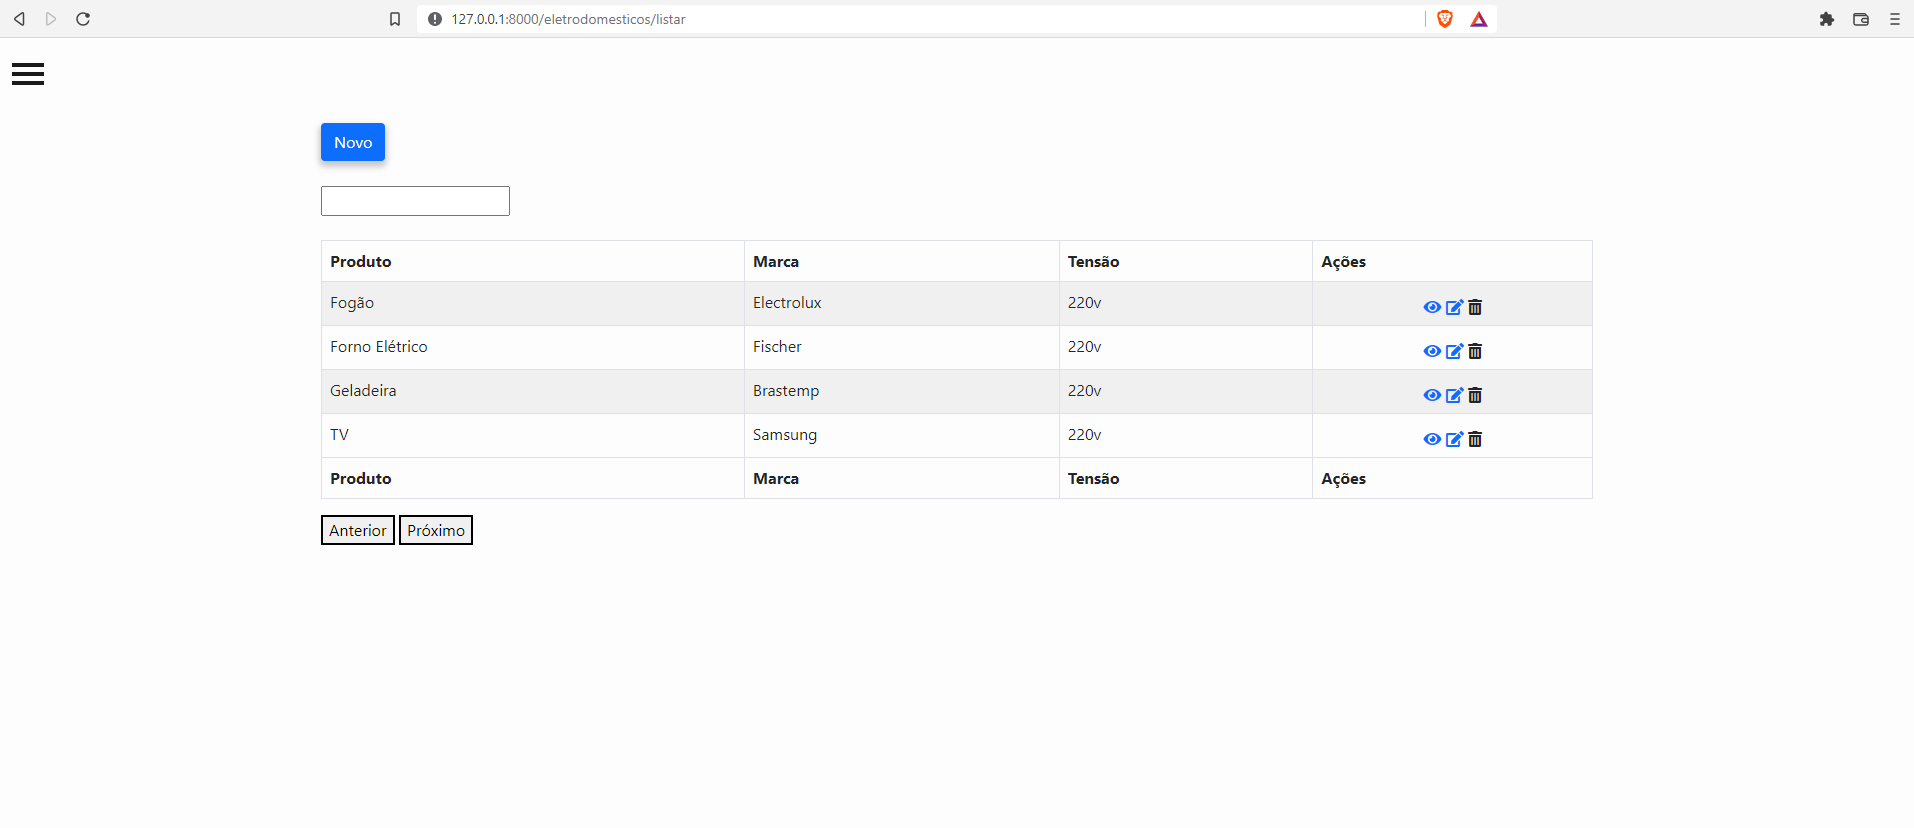
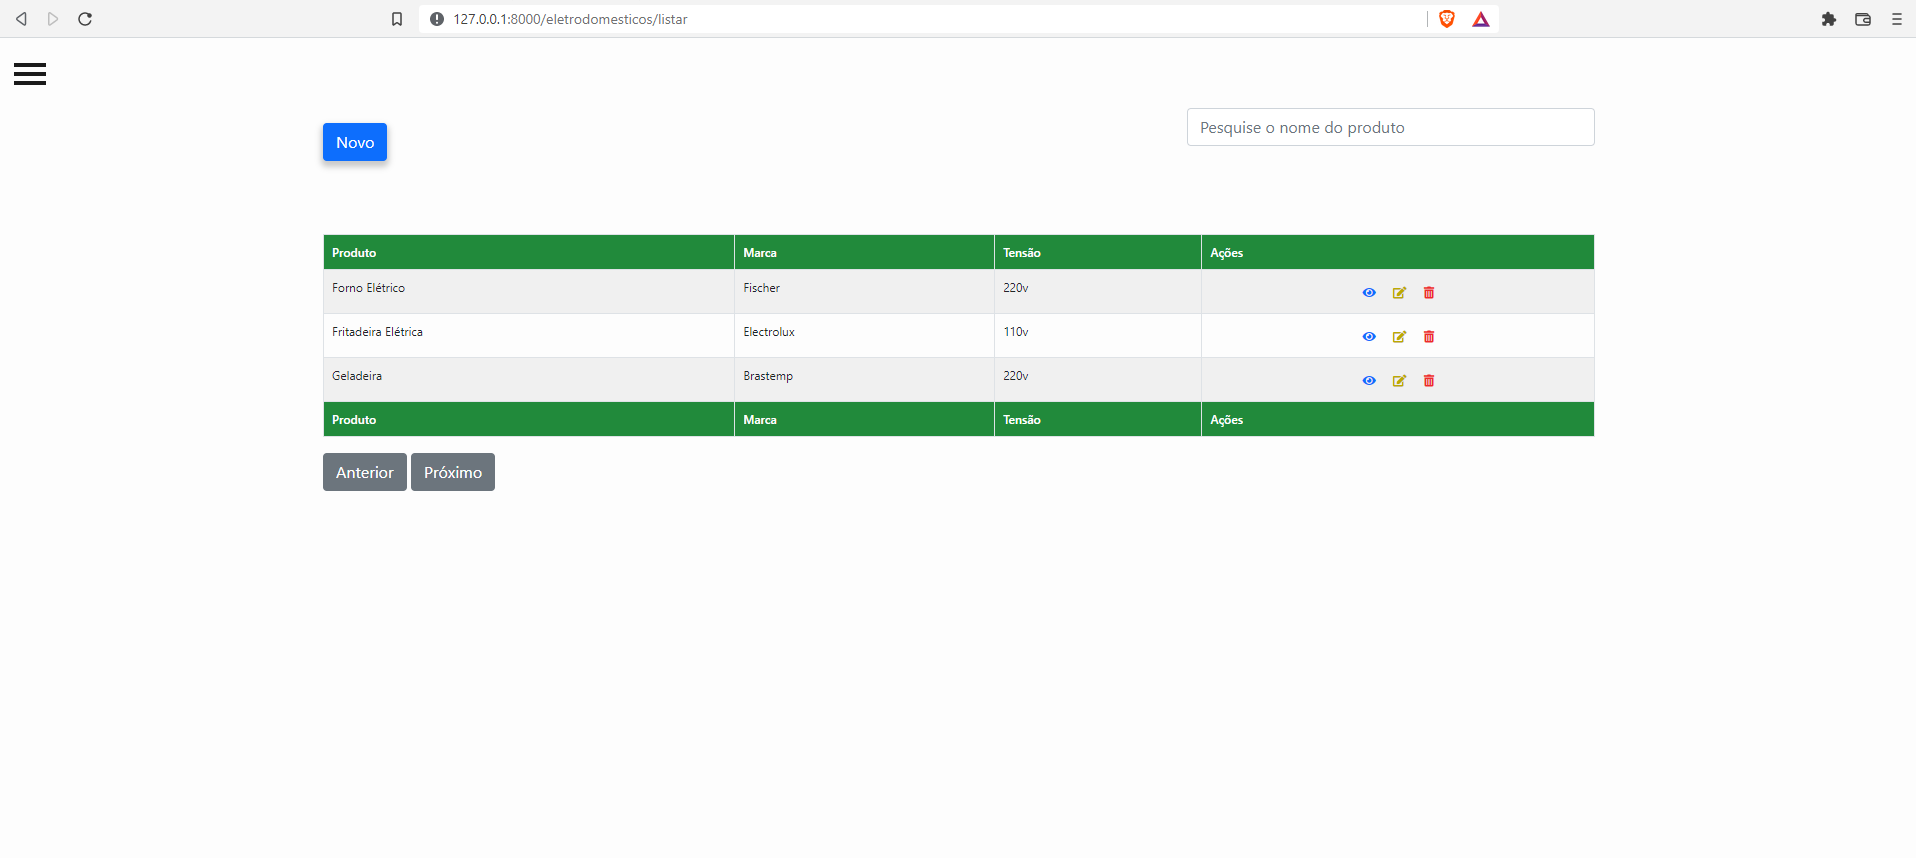
atualizando estilo da tabela

diff --git a/public/js/app.js b/public/js/app.js
@@ -4925,6 +4925,8 @@ __webpack_require__.r(__webpack_exports__);
 //
 //
 //
+//
+//
 
 
 /* harmony default export */ const __WEBPACK_DEFAULT_EXPORT__ = ({
@@ -30675,10 +30677,10 @@ var render = function () {
   var _c = _vm._self._c || _h
   return _c("layout", [
     _c("div", { staticClass: "container" }, [
-      _c("div", { staticClass: "row btn-actions" }, [
+      _c("div", { staticClass: "row" }, [
         _c(
           "div",
-          { staticClass: "col-md-12" },
+          { staticClass: "col-md-4 btn-actions" },
           [
             _c(
               "Link",
@@ -30691,28 +30693,33 @@ var render = function () {
           ],
           1
         ),
+        _vm._v(" "),
+        _c("div", { staticClass: "col-md-4" }),
+        _vm._v(" "),
+        _c("div", { staticClass: "col-md-4" }, [
+          _c("input", {
+            directives: [
+              {
+                name: "model",
+                rawName: "v-model",
+                value: _vm.form.search,
+                expression: "form.search",
+              },
+            ],
+            staticClass: "form-control",
+            attrs: { type: "text", placeholder: "Pesquise o nome do produto" },
+            domProps: { value: _vm.form.search },
+            on: {
+              input: function ($event) {
+                if ($event.target.composing) {
+                  return
+                }
+                _vm.$set(_vm.form, "search", $event.target.value)
+              },
+            },
+          }),
+        ]),
       ]),
-      _vm._v(" "),
-      _c("input", {
-        directives: [
-          {
-            name: "model",
-            rawName: "v-model",
-            value: _vm.form.search,
-            expression: "form.search",
-          },
-        ],
-        attrs: { type: "text" },
-        domProps: { value: _vm.form.search },
-        on: {
-          input: function ($event) {
-            if ($event.target.composing) {
-              return
-            }
-            _vm.$set(_vm.form, "search", $event.target.value)
-          },
-        },
-      }),
       _vm._v(" "),
       _c("br"),
       _c("br"),
@@ -30726,7 +30733,7 @@ var render = function () {
             {
               staticClass: "table table-striped table-bordered table-hover",
               staticStyle: { width: "100%" },
-              attrs: { id: "tbl-list-eletros" },
+              attrs: { id: "myTable" },
             },
             [
               _c("thead", [
@@ -30849,9 +30856,17 @@ var render = function () {
           ),
           _vm._v(" "),
           _c("p", [
-            _c("button", { on: { click: _vm.prevPage } }, [_vm._v("Anterior")]),
+            _c(
+              "button",
+              { staticClass: "btn btn-secondary", on: { click: _vm.prevPage } },
+              [_vm._v("Anterior")]
+            ),
             _vm._v(" "),
-            _c("button", { on: { click: _vm.nextPage } }, [_vm._v("Próximo")]),
+            _c(
+              "button",
+              { staticClass: "btn btn-secondary", on: { click: _vm.nextPage } },
+              [_vm._v("Próximo")]
+            ),
           ]),
         ]
       ),

diff --git a/resources/js/Paginas/Eletrodomesticos.vue b/resources/js/Paginas/Eletrodomesticos.vue
@@ -1,20 +1,22 @@
 <template>
   <layout>
     <div class="container">
-      <div class="row btn-actions">
-        <div class="col-md-12">
+      <div class="row">
+        <div class="col-md-4 btn-actions">
           <Link :href="'/eletrodomesticos/novo'" class="btn btn-primary btnNovo"
             >Novo</Link
           >
         </div>
-      </div>
-
-      <input type="text" v-model="form.search" />
+        <div class="col-md-4"></div>
+        <div class="col-md-4">
+          <input type="text" v-model="form.search" class="form-control" placeholder="Pesquise o nome do produto"/>
+        </div>
+      </div>      
       <br /><br />
 
       <div class="table-responsive-lg" id="div_table">
         <table
-          id="tbl-list-eletros"
+          id="myTable"
           class="table table-striped table-bordered table-hover"
           style="width: 100%"
         >
@@ -61,8 +63,8 @@
           </tfoot>
         </table>
         <p>
-          <button @click="prevPage">Anterior</button>
-          <button @click="nextPage">Próximo</button>
+          <button @click="prevPage" class="btn btn-secondary">Anterior</button>
+          <button @click="nextPage" class="btn btn-secondary">Próximo</button>
         </p>
       </div>
     </div>

diff --git a/public/css/app.css b/public/css/app.css
@@ -507,10 +507,10 @@ a[href*="#contact"]::before {
 }
 
 
-/* DataTables */
+/* Tabela */
 
 #myTable th {
-    background-color: #af4a4a;
+    background-color: #218a3b;
     font-weight: 500;
     height: 5px !important;
     font-size: 12px;
@@ -665,4 +665,9 @@ a[href*="#contact"]::before {
 .fa-list {
     position: relative;
     margin-left: -30px;
+}
+
+.header-list {
+    position: relative;
+    top: 50px !important;
 }

diff --git a/resources/css/app.css b/resources/css/app.css
@@ -518,10 +518,10 @@ a[href*="#contact"]::before {
 }
 
 
-/* DataTables */
+/* Tabela */
 
 #myTable th {
-    background-color: #af4a4a;
+    background-color: #218a3b;
     font-weight: 500;
     height: 5px !important;
     font-size: 12px;
@@ -676,4 +676,9 @@ a[href*="#contact"]::before {
 .fa-list {
     position: relative;
     margin-left: -30px;
+}
+
+.header-list {
+    position: relative;
+    top: 50px !important;
 }
